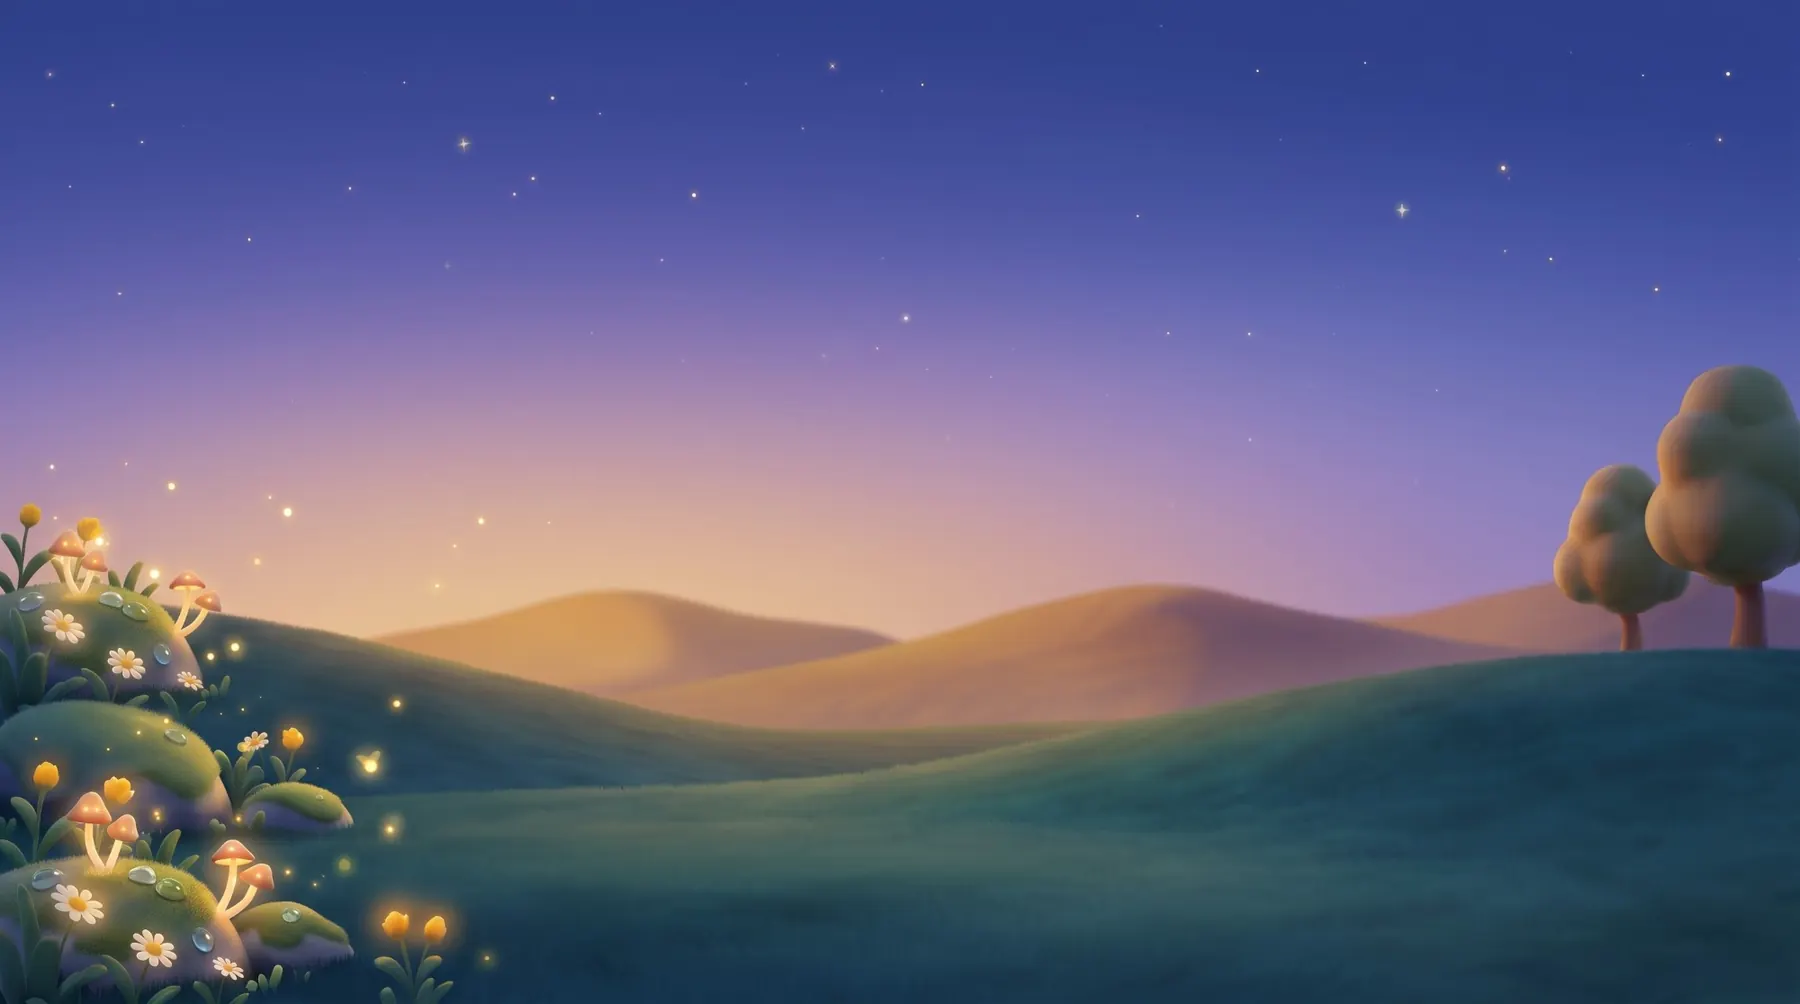
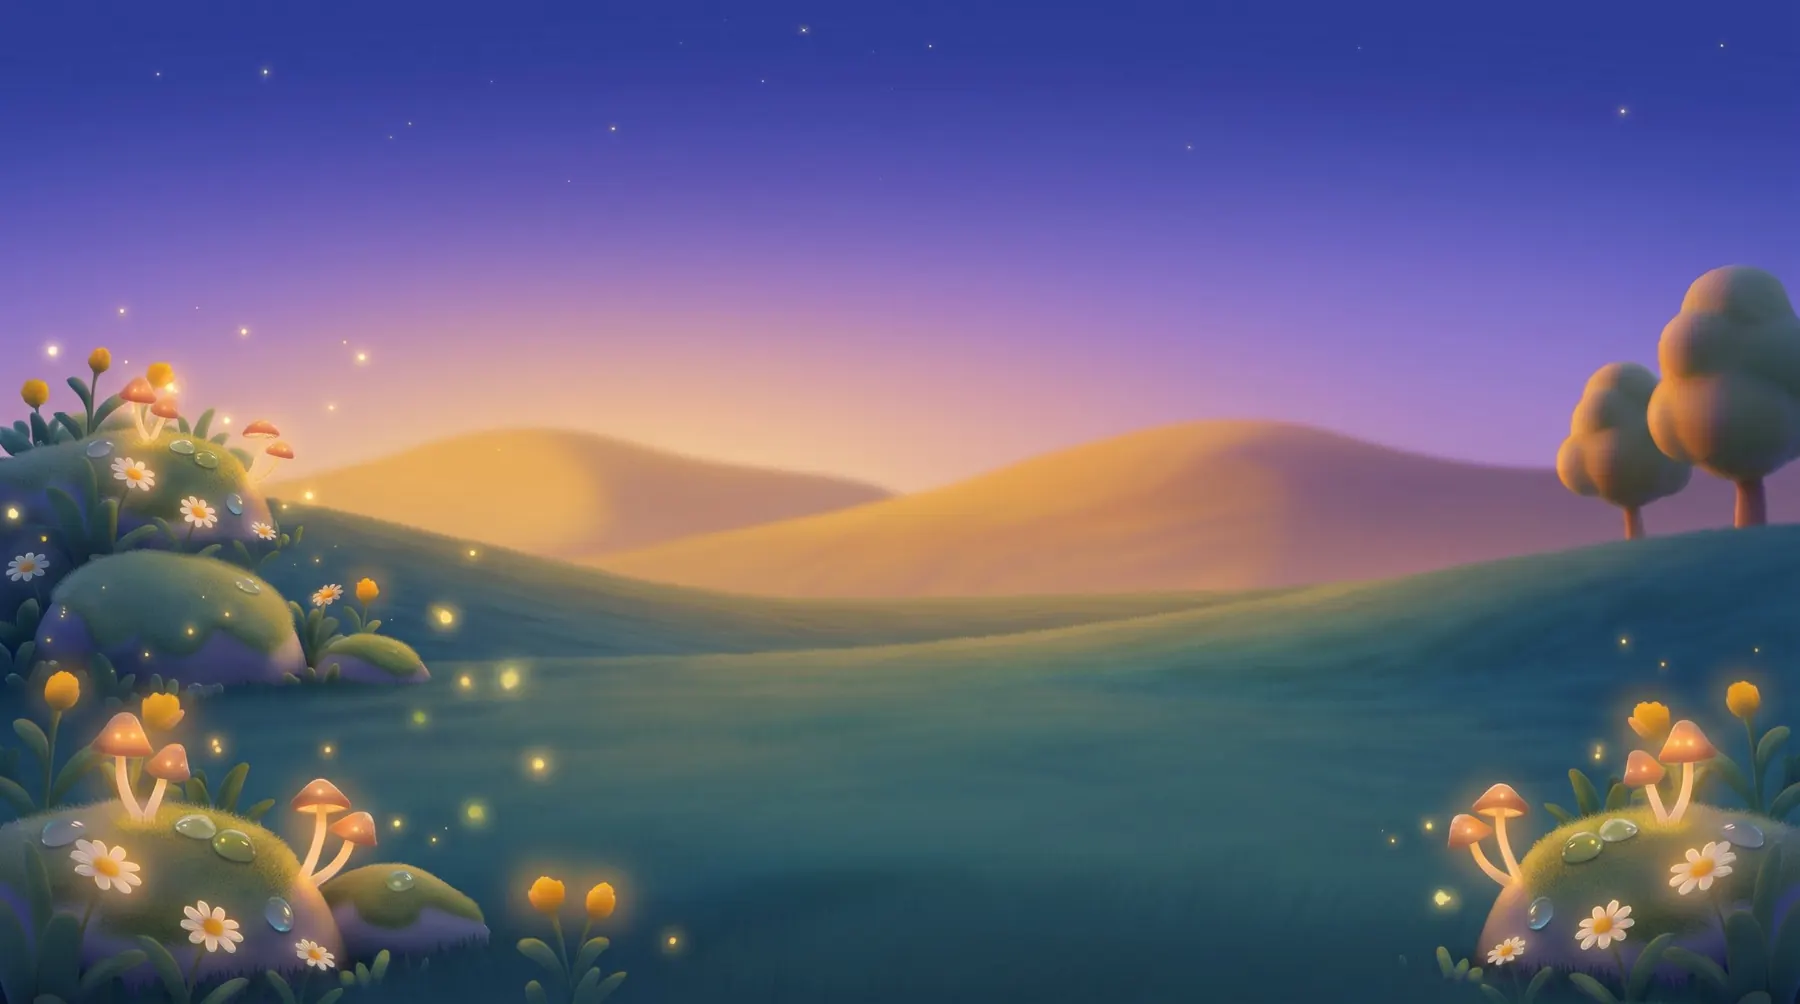
#/neu: горизонтальные кадры 16:9 для всех пяти миров
Claude-Session: https://claude.ai/code/session_01XbiCnGD699nqvTebUvTtnV

diff --git a/src/screens/neu.ts b/src/screens/neu.ts
@@ -21,6 +21,10 @@ import herbstHoch from '../bilder/welten/herbst-hoch.webp';
 import lavendelHoch from '../bilder/welten/lavendel-hoch.webp';
 import gluehHoch from '../bilder/welten/gluehwuermchen-hoch.webp';
 import gluehQuer from '../bilder/welten/gluehwuermchen-quer.webp';
+import wieseQuer from '../bilder/welten/wiese-quer.webp';
+import teichQuer from '../bilder/welten/teich-quer.webp';
+import herbstQuer from '../bilder/welten/herbst-quer.webp';
+import lavendelQuer from '../bilder/welten/lavendel-quer.webp';
 
 /**
  * Neuer Satzbildschirm nach Probe 7c (#/neu) – Vorschau für die Autorin, bis A10 den alten Bildschirm ersetzt.
@@ -64,9 +68,10 @@ interface Zustand {
 }
 
 const SATZ = 6;
-/** Welten in fester Reihenfolge; ein querer Ausschnitt nur, wo er schon gemalt ist (sonst wird der hohe beschnitten) */
+/** Welten in fester Reihenfolge: hochkant und quer je ein eigenes Bild (16:9 und 9:16) */
 const WELTEN: { hoch: string; quer?: string }[] = [
-  { hoch: wieseHoch }, { hoch: teichHoch }, { hoch: herbstHoch }, { hoch: lavendelHoch }, { hoch: gluehHoch, quer: gluehQuer },
+  { hoch: wieseHoch, quer: wieseQuer }, { hoch: teichHoch, quer: teichQuer }, { hoch: herbstHoch, quer: herbstQuer },
+  { hoch: lavendelHoch, quer: lavendelQuer }, { hoch: gluehHoch, quer: gluehQuer },
 ];
 const WELT_SCHLUESSEL = 'denk-raupe.welt';
 /** nächste Welt; gemerkt nur auf dem Gerät, ohne Speicher geht es bei der ersten weiter */

diff --git a/docs/STIL.md b/docs/STIL.md
@@ -375,7 +375,7 @@ Nov 16, 2026
 
 Заменяет кремовую доску и белые плоскости из пробы 6. Проверено автором на телефоне; планшет решается отдельно.
 
-- **Фон — картинка мира** (`src/bilder/welten/`, запросы — `docs/BILDER.md`, «Круг 4»): сад светлячков, луг, пруд, осень, лаванда. Мир меняется с каждым набором по кругу. Горизонтальный кадр пока только у сада светлячков, остальные на горизонтальном экране обрезают вертикальный.
+- **Фон — картинка мира** (`src/bilder/welten/`, запросы — `docs/BILDER.md`, «Круг 4»): сад светлячков, луг, пруд, осень, лаванда. Мир меняется с каждым набором по кругу. У каждого мира два кадра: вертикальный (9:16) и горизонтальный (16:9, 20.11.2026).
 - **Материал — светлое стекло:** доска с заданием, лоток с цифрами, карточка «Vergleichen», сравнение, строка текста. Белый 60 % с размытием фона; где размытия нет — почти непрозрачный белый.
 - **Гусеница ребёнка стоит на одном месте во всех фазах:** решение, все бусины на месте, «Vergleichen», сравнение. Ряд занимает всю ширину, голова 1,7 бусины на телефоне. Ветка кончается под последней бусиной — пустой палки за гусеницей нет (автор 20.11.2026). Если все бусины на месте, а ребёнок что-то меняет, внизу доски по центру выглядывает близнец с маленькой медовой табличкой «Vergleichen» (автор 20.11.2026). Он стоит в потоке доски с постоянным отступом от задания и никогда не наезжает на рисунок; в ряду гусеницы его нет. Нажатие сразу запускает сравнение, второй карточки «Vergleichen» нет. Строки «Hier ist noch ein Blatt. Schau noch einmal.» больше нет: её не читают, открытое место показывают лист и пунктир на гусенице.
 - **«Vergleichen»** — стеклянная карточка в центре: «Alle Perlen sind da!» и медовая кнопка.
